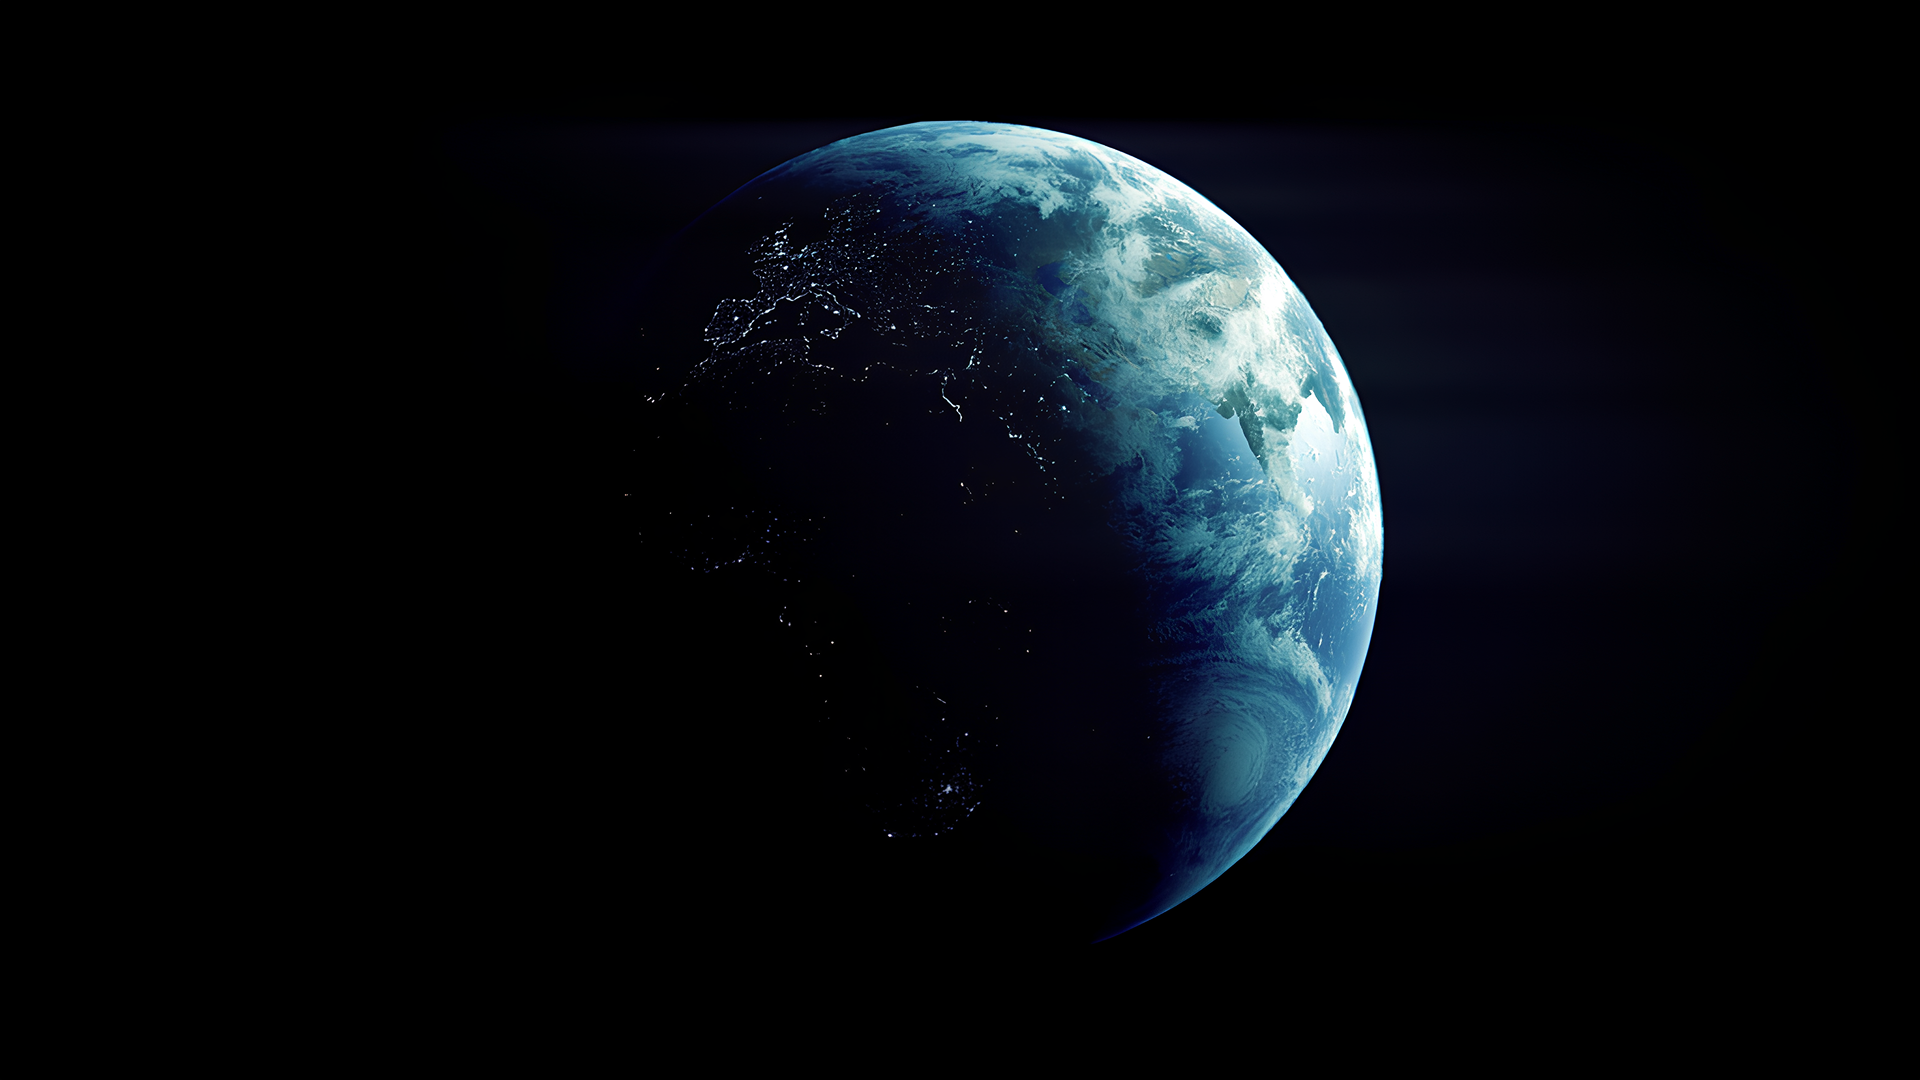
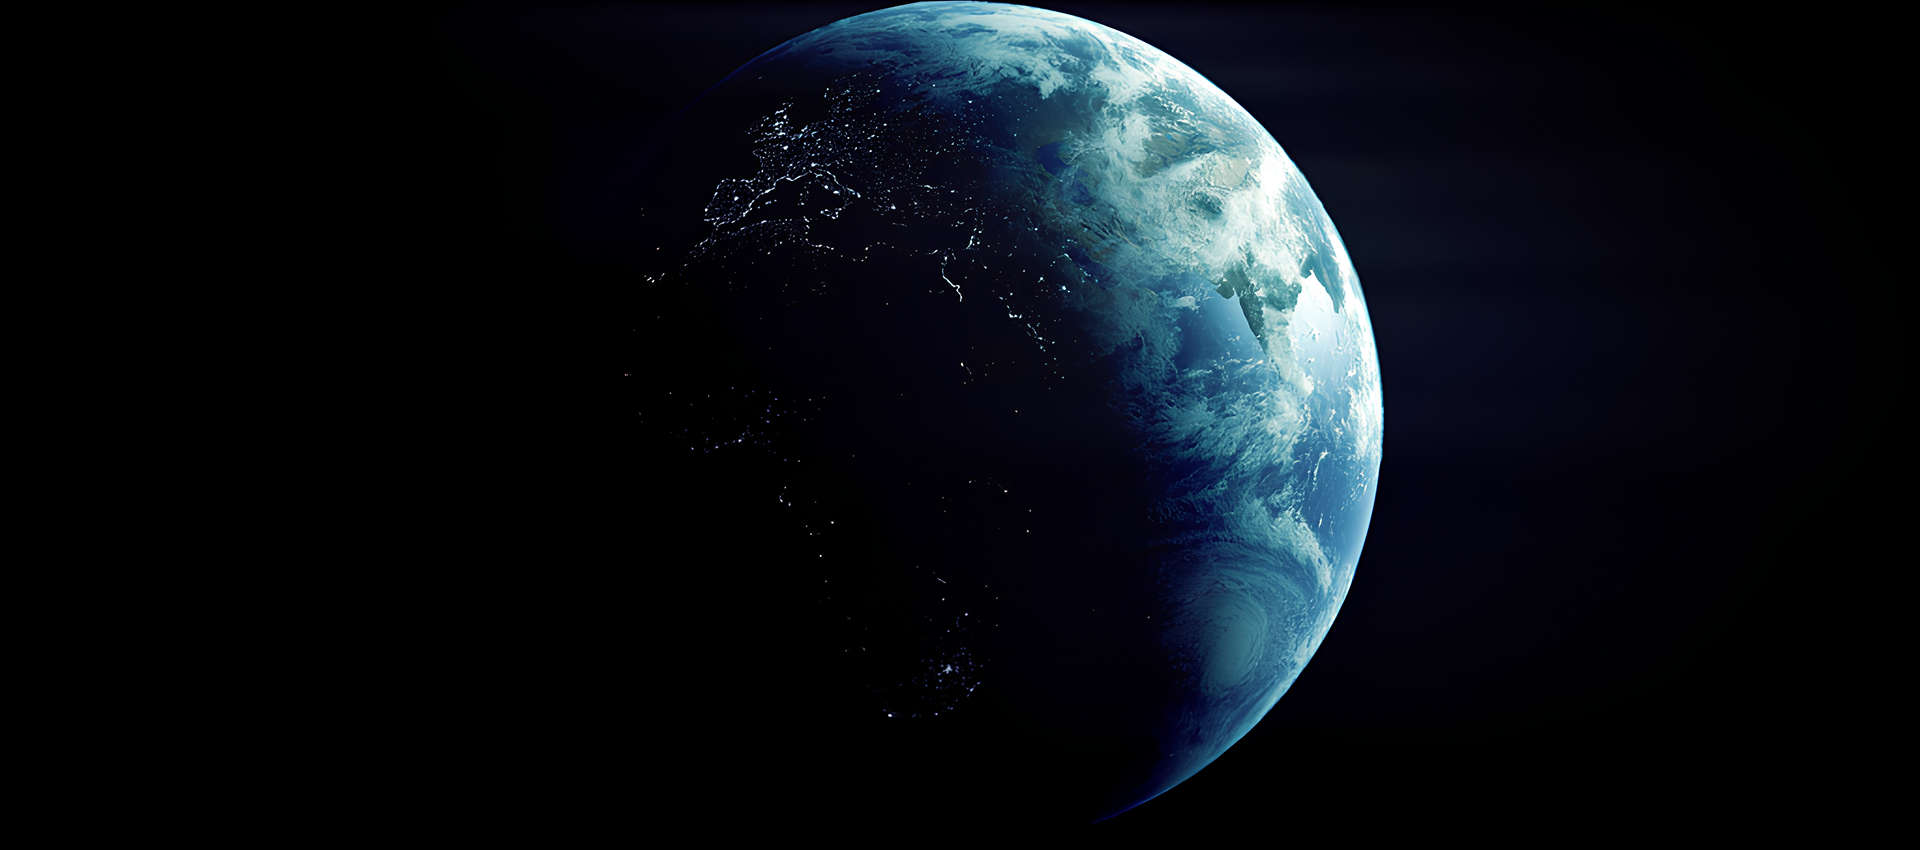
fix bugs

Changed region(s): [[0.375, 0.0, 0.7188, 0.9482], [0.5625, 0.9482, 0.5938, 0.9788], [0.4688, 0.7647, 0.5, 0.7953]]

diff --git a/src/scss/style.scss b/src/scss/style.scss
@@ -24,16 +24,12 @@ body {
 
 .wrapper {margin: 0 5% 0 5%;}
 
-    // фиксация header и travel
-header, .travel {
+header, .image-bg {
     position: fixed;
     top: 0;
     left: 0;
     width: 100%;
     box-sizing: border-box;
-    padding: 0 5%;
-    padding-top: 20px;
-    z-index: 1;
 }
 
 // HEADER
@@ -52,6 +48,8 @@ header {
     display: flex;
     justify-content: space-between;
     animation: SlideFromTop 1s ease-out forwards;
+    padding: 10px 5%;
+    padding-top: 20px;
     z-index: 3;
     background: #000;
 
@@ -94,12 +92,8 @@ header {
         align-items: center;
         gap: 3px;
         cursor: pointer;
-
         i {transition: color 0.3s ease;}
-
-        &:hover {
-            i {color: vars.$color-purple;}
-        }
+        &:hover {i {color: vars.$color-purple;}}
     }
 }
 
@@ -107,7 +101,7 @@ header {
 .travel {
     display: flex;
     justify-content: space-between;
-    margin-top: 50px;
+    margin-top: 100px;
 
     @keyframes SlideFromLeft {
         0% {
@@ -174,7 +168,6 @@ header {
 
                 .input_wrapper {
                     position: relative;
-
                     input {
                     width: 100%;
                     height: 45px;
@@ -222,9 +215,6 @@ header {
                         margin: 0;
                     }
 
-                    // скрытие стрелочек input number(Firefox)
-                    input[type="number"] {-moz-appearance: textfield;}
-
                     label {
                         position: absolute;
                         top: 10px;
@@ -264,6 +254,7 @@ header {
 // IMAGE BACKGROUND
 .image-bg {
     position: relative;
-    // margin-top: 10000px;
+    margin-top: 150px;
     z-index: 2;
+    width: 100%;
 }

diff --git a/src/scss/air-datepicker.scss b/src/scss/air-datepicker.scss
@@ -1,31 +1,36 @@
 .air-datepicker {
-    background: #C9C9C9 !important;
+    background: #C9C9C9;
     color: #000;
     border-radius: 15px;
-    border: none;
+    box-shadow: 9px 9px 18px 0 rgb(156, 154, 154, 0.6);
+    width: 260px;
+    font-size: 18px;
 }
 
 .air-datepicker-body--day-name {color: #7B61FF;}
 
 .air-datepicker-cell.-selected-,
 .air-datepicker-cell.-selected-.-focus- {
-    background-color: #7B61FF !important;
-    color: #fff !important;
+    background-color: #7B61FF;
+    color: #fff;
 }
 
-.air-datepicker-cell.-focus- {background-color: rgba(123,97,255, 0.2) !important;}
+.air-datepicker-cell.-focus- {background-color: rgba(123,97,255, 0.2);}
 
 .air-datepicker-cell.-current- {color: #fff;
 }
 
 .air-datepicker-nav {border-bottom: none;}
 
-.air-datepicker--nav-action path {fill: #9C9A9A !important;}
+.air-datepicker--nav-action path {fill: #9C9A9A;}
+
+.air-datepicker-nav--title i {color: #000;}
 
 .air-datepicker-button {
     color: #7B61FF;
     background: #DDDDDD;
     border-radius: 15px;
+    font-size: 15px;
 }
 
 .air-datepicker-button:hover {
@@ -36,14 +41,15 @@
 .air-datepicker--buttons {border-top: none;}
 
 .air-datepicker-cell.-other-month- {
-    color: #7B61FF !important;
+    color: #7B61FF;
     opacity: 0.6;
 }
 
 .air-datepicker-cell.-disabled- {
-    background: none !important;
-    color: #000 !important;
-    opacity: 0.1;
+    background: none;
+    color: #000;
+    opacity: 0.12;
+    &:hover {color: #000;}
 }
 
 .air-datepicker--pointer::after {

diff --git a/index.html b/index.html
@@ -68,7 +68,7 @@
             </div>
         </main>
         <!-- <picture></picture> -->
-        <img class="image-bg" src="/src/img/image-bg.png" alt="">
+        <img class="image-bg" src="/src/img/image-bg.png" alt="Planet Earth Background Image">
     </div>
     <script type="module" src="/src/js/main.js"></script>
 </body>
